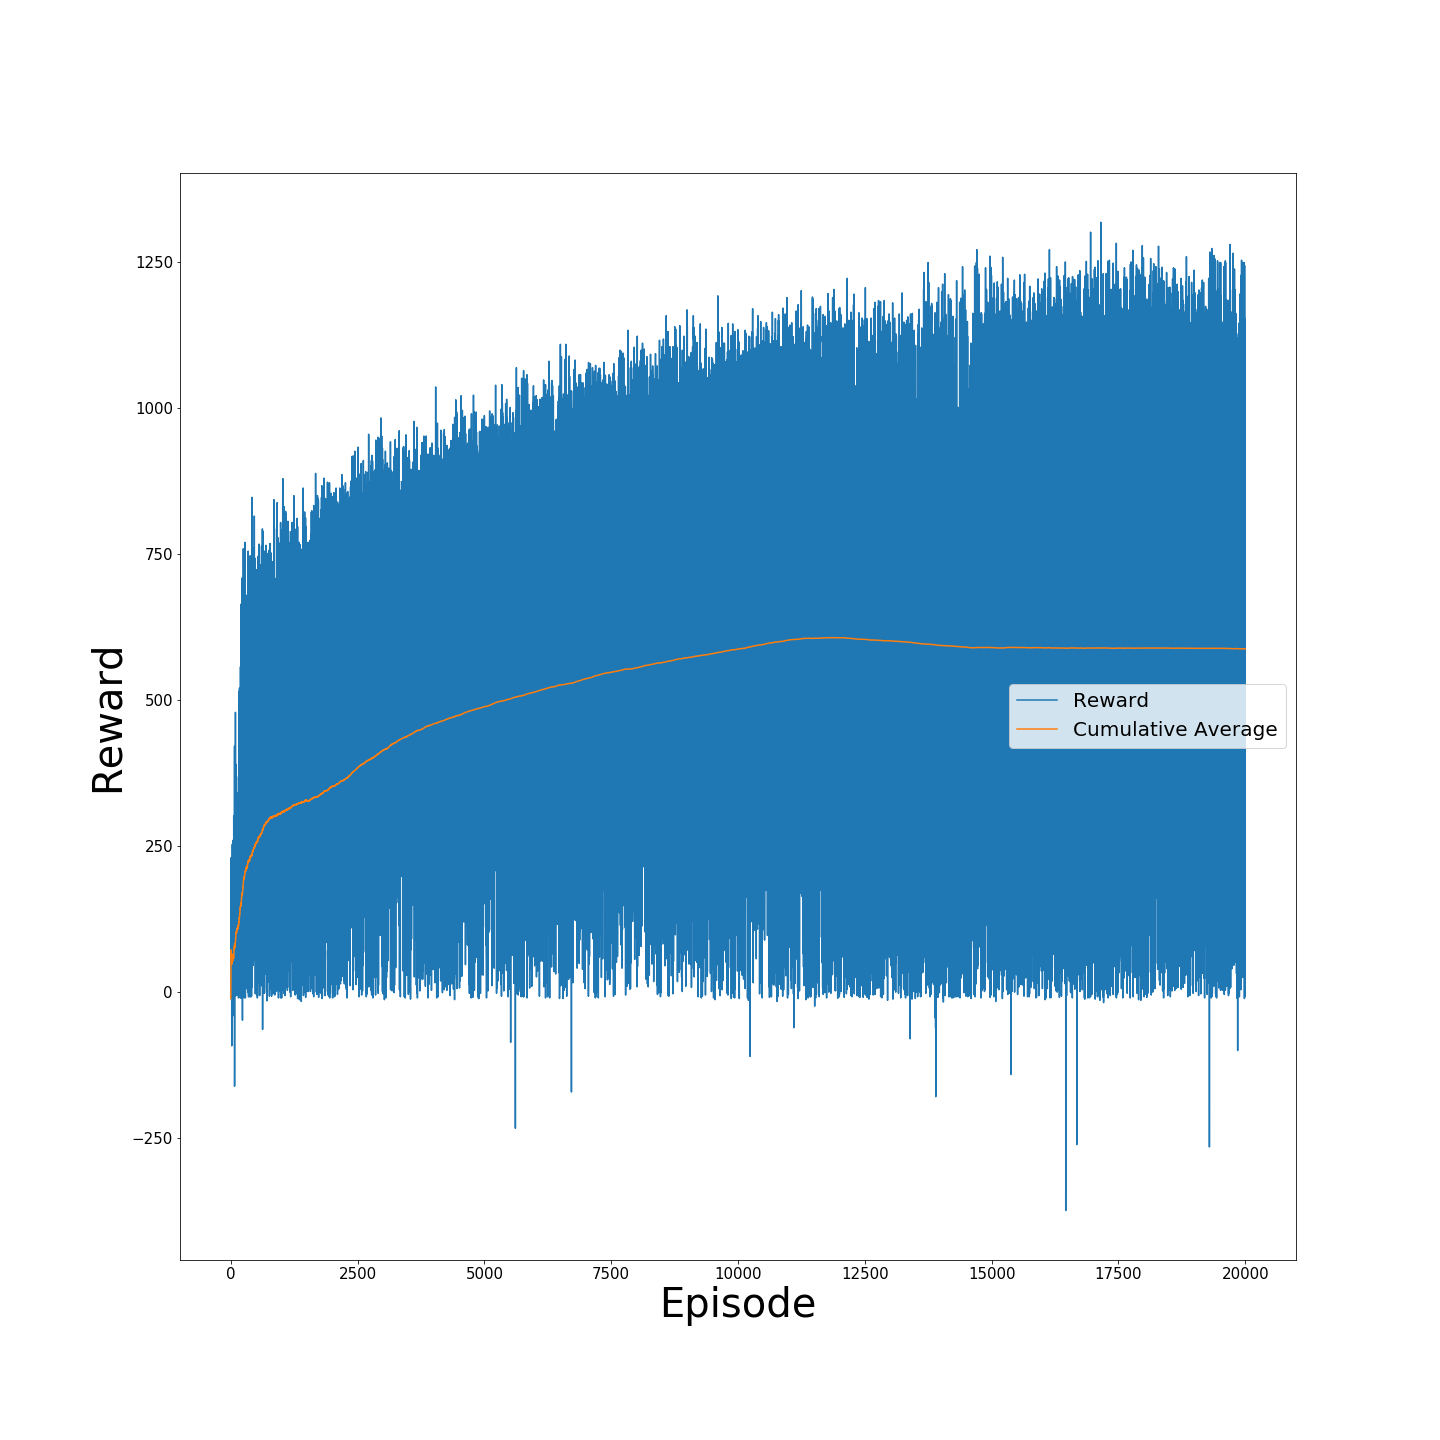
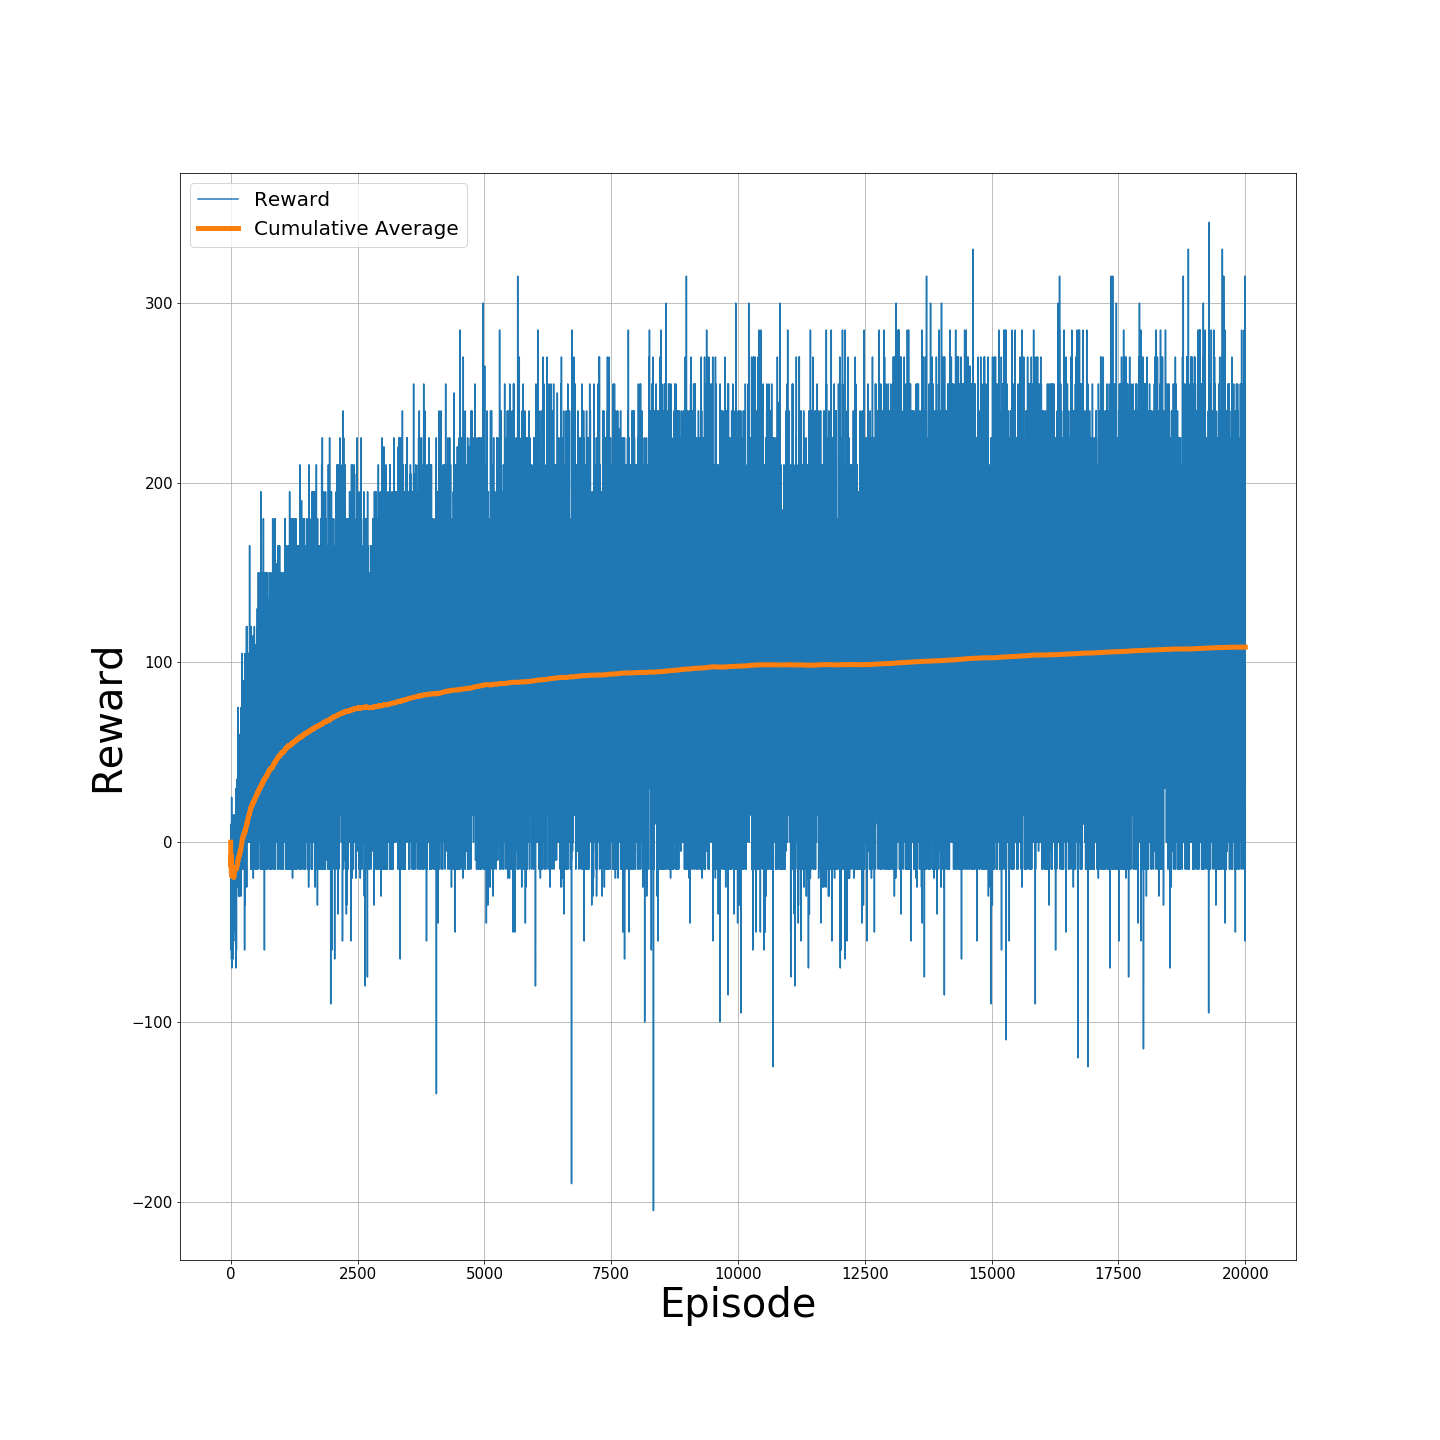
Final modification on deep model with plots

diff --git a/Bilbo World/Bilbo_ga_deep_feels.py b/Bilbo World/Bilbo_ga_deep_feels.py
@@ -5,65 +5,23 @@ import time
 import numpy as np
 import matplotlib.pyplot as plt
 import matplotlib.animation as animation
-from collections import deque
 
 d = {TREASURE_CHAR: '16',
      PLAYER_CHAR: '5',
      DRAGON_CHAR: '10',
      OBSTACLE_CHAR: '20'}
 
-memory = deque(maxlen=5000)
-hight_reward_memory = deque(maxlen=5000)
-
 MAX_EPOCH = 150
-TOT_GENERATION = 300
+TOT_GENERATION = 150
 ELITISM = 0.1
 MUTATION = 0.05
-n_pop = 200
+n_pop = 150
 
 possible_moves = {'up':0,'down':1,'left':2,'right':3}
 inverse_possible_moves = {0:'up',1:'down',2:'left',3:'right'}
 
 gamma = 0.8
 mondo = World(WORLD_DIM, bilbo=None, obstacle=False, random_spawn=True)
-
-def train(bilbo, i):
-    "trains the best neural networks for GA, using a common memory"
-    if len(memory) < MIN_MEMORY or len(hight_reward_memory) < MIN_MEMORY:
-        return bilbo
-
-    start_time = time.time()
-    minibatch = random.sample(memory, 16)
-    minibatch.extend(random.sample(hight_reward_memory,16))
-
-    current_states = np.array([memory[0] for memory in minibatch])
-    current_qs_list = bilbo.q_nn.predict(current_states)
-
-    next_states = np.array([memory[3] for memory in minibatch])
-    future_qs_list = bilbo.q_nn.predict(next_states)
-
-    X = []
-    y = []
-
-        # Now we need to enumerate our batches
-    for index, (current_state, action, reward, next_current_state, game_ended) in enumerate(minibatch):
-        # almost like with Q Learning, but we use just part of equation here
-        if game_ended or reward == -OBSTACLE_PENALTY or reward == TREASURE_REWARD:
-            new_q = reward
-        else:
-            max_future_q = np.max(future_qs_list[index])
-            new_q = reward + gamma * max_future_q
-
-        # Aggiorna i q-value
-        current_qs = current_qs_list[index]
-        current_qs[action] = new_q
-
-        X.append(current_state)
-        y.append(current_qs)
-
-    bilbo.q_nn.fit(np.array(X), np.array(y), batch_size=32, verbose=0, shuffle=False)
-    #print("The {0:3} training took {1:2}s".format(i,round(time.time()-start_time)), end='\r')
-    return bilbo
 
 def recorded_gameplay(bilbo):
     "Just for some animated gameplay (used while developing)"
@@ -121,10 +79,6 @@ def play_game(bilbo, n_times=1, max_epoch=MAX_EPOCH):
             tot_reward += reward
             knowledge = (current_state,action,reward,new_state,reward in [-DRAGON_PENALTY, -OBSTACLE_PENALTY])
             current_state = new_state
-            if reward in [-DRAGON_PENALTY, TREASURE_REWARD]:
-                hight_reward_memory.append(knowledge)
-            else:
-                memory.append(knowledge)
             if to_print:
                 print(mondo)
             if reward in [-DRAGON_PENALTY, -OBSTACLE_PENALTY]:
@@ -138,7 +92,7 @@ def pop_fitness(pop, max_epoch=MAX_EPOCH, _train=True):
     #why u not working :'(
     #Parallel(n_jobs=-1)(delayed(play_game)(bilbo) for bilbo in pop)
     for i in range(len(pop)):
-        sub_fitness = play_game(pop[i], 2, max_epoch)
+        sub_fitness = play_game(pop[i], 3, max_epoch)
         #print('fitness value of chromosome {:3} : {:6}'.format(i+1, round(sub_fitness,2)), end='\r')
         fitness.append(sub_fitness)
     return np.array(fitness)
@@ -191,7 +145,7 @@ def parents(pop, _train=True):
     best_model = pop[fitness_sorted[0]]
     return parents, round(np.mean(fitness), 2), round(np.max(fitness), 2), best_model
 
-def _new_pop(pop, elitism=0.1, mutationRate=0.1, _train=True):
+def _new_pop(pop, elitism=0.1, mutationRate=0.1):
     '''
     The Heart of the GA algorithm, starting from a certain population searches
     the best parents and using crossover and mutation completes the population
@@ -203,12 +157,8 @@ def _new_pop(pop, elitism=0.1, mutationRate=0.1, _train=True):
     pop_ordered, average_fitness, max_fitness, best_model = parents(pop)
     #print("calculated parents in:{:10}s".format(round(time.time()-start_time)))
     parent_pool = pop_ordered[:eliteSize]
-    if _train:
-        for i in range(0, eliteSize):
-            children.append(train(parent_pool[i], i))
-    else:
-        for i in range(0, eliteSize):
-            children.append(parent_pool[i])
+    for i in range(0, eliteSize):
+        children.append(parent_pool[i])
 
     for i in range(0, length):
         sample = random.sample(parent_pool, 2) #cerca madre e padre
@@ -232,7 +182,7 @@ max_reward = [max_fit]
 
 start_time = time.time()
 for gen in range(TOT_GENERATION):
-    pop, average_fit, max_fit, best_model = _new_pop(pop, ELITISM, MUTATION, _train=True)
+    pop, average_fit, max_fit, best_model = _new_pop(pop, ELITISM, MUTATION)
     print("New gen average:{:6} New gen Max:{:6}, Generation:{:3}, Time:{}s".format(average_fit, max_fit, gen + 1, round(time.time() - start_time)), end='\r')
     average_reward.append(average_fit)
     max_reward.append(max_fit)
@@ -241,36 +191,14 @@ print("Final average:{:6} Final Max:{:6}, Time Used:{}s".format(average_fit, max
 best_model.save_model('./models/deep_model_ga_15.model')
 
 
-for i in range(len(pop)):
-    pop[i].set_weights(init_weights[i])
-
-pop_fit = pop_fitness(pop)
-average_fit = round(np.mean(pop_fit), 2)
-average_reward_basic = [average_fit]
-max_fit = round(np.max(pop_fit), 2)
-max_reward_basic = [max_fit]
-
-start_time = time.time()
-for gen in range(TOT_GENERATION):
-    pop, average_fit, max_fit, best_model = _new_pop(pop, ELITISM, MUTATION, _train=False)
-    print("New gen average:{:6} New gen Max:{:6}, Generation:{:3}, Time:{}s".format(average_fit, max_fit, gen + 1, round(time.time() - start_time)), end='\r')
-    average_reward_basic.append(average_fit)
-    max_reward_basic.append(max_fit)
-
-print("Final average:{:6} Final Max:{:6}, Time Used:{}s".format(average_fit, max_fit, round(time.time() - start_time)))
-best_model.save_model('./models/deep_model_basic_ga_15.model')
-
-
 plt.rc('xtick', labelsize=15)    # fontsize of the tick labels
 plt.rc('ytick', labelsize=15)
 
 fig = plt.figure(figsize=(20, 20))
-av_reward_plt, = plt.plot(average_reward_basic)
-max_reward_plt, = plt.plot(max_reward_basic)
 av_reward_plt_n, = plt.plot(average_reward)
 max_reward_plt_n, = plt.plot(max_reward)
-plt.legend([av_reward_plt, max_reward_plt,av_reward_plt_n, max_reward_plt_n],
-           ['Average Reward Basic', 'Max Reward Basic','Average Reward New', 'Max Reward New'],
+plt.legend([av_reward_plt_n, max_reward_plt_n],
+           ['Max Reward','Average Reward'],
            loc=5, prop={'size': 20})
 plt.xlabel('Generation', fontsize=40)
 plt.ylabel('Reward', fontsize=40)

diff --git a/Bilbo World/Bilbo_deep_feels.py b/Bilbo World/Bilbo_deep_feels.py
@@ -1,8 +1,7 @@
+import time
 import matplotlib.pyplot as plt
-#import matplotlib.animation as animation
 from CreateBilboWorld import *
 from agents import *
-import time
 
 def cumsum_average(array):
     ret = np.cumsum(array, dtype=float)
@@ -15,16 +14,16 @@ d = {TREASURE_CHAR: '16',
      OBSTACLE_CHAR: '20'}
 
 TOT_EPISODES = 20000
-MAX_EPOCH = 500
+MAX_EPOCH = 150
 
-possible_moves = {'up':0,'down':1,'left':2,'right':3}
-inverse_possible_moves = {0:'up',1:'down',2:'left',3:'right'}
+possible_moves = {'up':0, 'down':1, 'left':2, 'right':3}
+inverse_possible_moves = {0:'up', 1:'down', 2:'left', 3:'right'}
 
 
 gamma = 0.8
 epsilon = 0.5
 epsilon_min = 0.01
-decay_epsilon = 0.9999
+decay_epsilon = 0.9997
 
 bilbo = DeepQLearningAgent(PLAYER_CHAR)
 
@@ -37,7 +36,8 @@ tot_wins = []
 tot_loss = []
 start_time = time.time()
 
-fig = plt.figure(figsize=(15,10))
+fig = plt.figure(figsize=(15, 10))
+plt.grid(True)
 for ep in range(TOT_EPISODES):
     #recreate the environment
     mondo = World(WORLD_DIM, bilbo=bilbo, obstacle=False, random_spawn=True)
@@ -73,16 +73,17 @@ for ep in range(TOT_EPISODES):
             current_qs = np.array([current_qs])
             bilbo.q_nn.fit(current_state.reshape(-1, bilbo.state_shape), current_qs, verbose=0)
             lost += 1
-        if reward in [TREASURE_REWARD,-DRAGON_PENALTY]:
+        if reward in [TREASURE_REWARD, -DRAGON_PENALTY]:
             bilbo.add_high_knowledge((current_state, action, reward, new_state, game_ended))
         else:
             bilbo.add_knowledge((current_state, action, reward, new_state, game_ended))
         current_state = new_state
         bilbo.train(gamma)
-        tot_reward += reward
+        if not reward in [-2, 1]:
+            tot_reward += reward
         if end_game:
             break
-        if len(tot_wins) > 0:
+        if tot_wins:
             if epoch == MAX_EPOCH and won == tot_wins[-1]:
                 lost += 1
 
@@ -97,45 +98,47 @@ for ep in range(TOT_EPISODES):
     epsilon = epsilon*decay_epsilon if epsilon > epsilon_min else epsilon_min
     #each 10 episode save the model
     if ep % 10 == 0:
-        save_model(bilbo.q_nn,'./models/deep_model_'+str(WORLD_DIM)+'.model')
+        save_model(bilbo.q_nn, './models/deep_model_'+str(WORLD_DIM)+'.model')
         plt.subplot(221)
-        reward_plot, = plt.plot(rewards)
-        ra_reward, = plt.plot(cumsum_average(rewards))
-        plt.legend([reward_plot, ra_reward], ['Reward', 'Rolling Average'], loc = 5)
+        reward_plot, = plt.plot(rewards, color='tab:blue')
+        ra_reward, = plt.plot(cumsum_average(rewards), linewidth=5, color='tab:orange')
+        plt.legend([reward_plot, ra_reward], ['Reward', 'Cumulative Average'], loc='best')
         plt.xlabel('Episode')
         plt.ylabel('Reward')
+        plt.grid(True)
 
         plt.subplot(222)
-        win_plot, = plt.plot(tot_wins)
-        lost_plot, = plt.plot(tot_loss)
-        plt.legend([win_plot, lost_plot], ['Total Wins', 'Total Non Wins'], loc = 5)
+        win_plot, = plt.plot(tot_wins, color='tab:blue')
+        lost_plot, = plt.plot(tot_loss, color='tab:orange')
+        plt.legend([win_plot, lost_plot], ['Total Wins', 'Total Non Wins'], loc='best')
         plt.xlabel('Episodes')
-        plt.ylabel('Tot Wins and Losing')
-
+        plt.ylabel('Tot Won and Lost')
+        plt.grid(True)
         plt.draw()
         plt.pause(0.001)
 
 #save the model again in case the MAX_episodes was not divisible by 10
-save_model(bilbo.q_nn,'./models/deep_model_'+str(WORLD_DIM)+'.model')
-
+save_model(bilbo.q_nn, './models/deep_model_'+str(WORLD_DIM)+'.model')
 plt.show()
 ### PLOTS
 plt.rc('xtick', labelsize=15)    # fontsize of the tick labels
 plt.rc('ytick', labelsize=15)
 
-fig = plt.figure(figsize=(20,20))
-reward, = plt.plot(rewards)
-ra_reward, = plt.plot(cumsum_average(rewards))
-plt.legend([reward, ra_reward], ['Reward', 'Rolling Average'], loc = 5, prop={'size': 20})
-plt.xlabel('Episode',fontsize=40)
-plt.ylabel('Reward',fontsize=40)
+fig = plt.figure(figsize=(20, 20))
+reward, = plt.plot(rewards, color='tab:blue')
+ra_reward, = plt.plot(cumsum_average(rewards), linewidth=2, color='tab:orange')
+plt.legend([reward, ra_reward], ['Reward', 'Cumulative Average'], loc='best', prop={'size': 20})
+plt.xlabel('Episode', fontsize=40)
+plt.ylabel('Reward', fontsize=40)
+plt.grid(True)
 fig.savefig('./plots/reward_deep_'+str(WORLD_DIM)+'.png')
 
 
-fig = plt.figure(figsize=(20,20))
+fig = plt.figure(figsize=(20, 20))
 win, = plt.plot(tot_wins)
 lost, = plt.plot(tot_loss)
-plt.legend([win, lost], ['Total Wins', 'Total Non Wins'], loc = 5, prop={'size': 20})
-plt.xlabel('Episodes',fontsize=40)
-plt.ylabel('Tot Wins and Losing',fontsize=40)
+plt.legend([win, lost], ['Total Wins', 'Total Non Wins'], loc='best', prop={'size': 20})
+plt.xlabel('Episodes', fontsize=40)
+plt.ylabel('Tot Won and Lost', fontsize=40)
+plt.grid(True)
 fig.savefig('./plots/epoch_deep_'+str(WORLD_DIM)+'.png')

diff --git a/Bilbo World/agents.py b/Bilbo World/agents.py
@@ -13,7 +13,7 @@ PLAYER_CHAR = '☺'
 OBSTACLE_CHAR = "█"
 
 MAX_MEMORY = 5000
-MIN_MEMORY = 16
+MIN_MEMORY = 32
 
 
 
@@ -192,7 +192,7 @@ class DeepQLearningAgent(Agent):
         model = Sequential()
 
         model.add(Dense(2*self.state_shape, input_shape=input_shape, activation='relu'))
-        model.add(Dense(8, activation='relu'))
+        #model.add(Dense(8, activation='relu'))
         #output layer
         model.add(Dense(self.action_size, activation='linear'))
         model.compile(loss='mse',
@@ -215,8 +215,8 @@ class DeepQLearningAgent(Agent):
             return
 
         # random elements from memory
-        minibatch = random.sample(self.memory, 16)
-        minibatch.extend(random.sample(self.hight_reward_memory, 16))
+        minibatch = random.sample(self.memory, 32)
+        minibatch.extend(random.sample(self.hight_reward_memory, 32))
 
         current_states = np.array([memory[0] for memory in minibatch])
         current_qs_list = self.q_nn.predict(current_states)
@@ -246,7 +246,7 @@ class DeepQLearningAgent(Agent):
             X.append(current_state)
             y.append(current_qs)
 
-        self.q_nn.fit(np.array(X), np.array(y), batch_size=32, verbose=0, shuffle=False)
+        self.q_nn.fit(np.array(X), np.array(y), batch_size=64, verbose=0, shuffle=False)
 
 
 class DeepQLearningAgentGA(Agent):

diff --git a/Bilbo World/CreateBilboWorld.py b/Bilbo World/CreateBilboWorld.py
@@ -105,7 +105,7 @@ class World:
         if not moving_reward: #for q learning
             return -WALKING_PENALTY
 
-        if (current_state==next_state).all():
+        if (current_state == next_state).all():
             return -OBSTACLE_PENALTY
         treasure_pos = np.array(self.get_position(TREASURE_CHAR))
         #reward can either return a negative constant (-1) or 0, but to have a faster
@@ -114,8 +114,8 @@ class World:
         player_old_pos = current_state[0:2]
         player_new_pos = next_state[0:2]
         if np.sum(np.abs(player_old_pos - treasure_pos)) <= np.sum(np.abs(player_new_pos - treasure_pos)):
-            return 0
-        return 0 #if closing in to the treasure
+            return -2
+        return 1 #if closing in to the treasure
 
 
     def is_border(self, pos):

diff --git a/Bilbo World/Bilbo_q_learning.py b/Bilbo World/Bilbo_q_learning.py
@@ -139,7 +139,7 @@ def cumsum_sma(array, period):
 #plot for Reward
 fig = plt.figure(figsize=(15, 15))
 reward, = plt.plot(rewards)
-ra_reward, = plt.plot(cumsum_sma(rewards, 10),  linewidth=5)
+ra_reward, = plt.plot(cumsum_sma(rewards, 10), linewidth=5)
 plt.legend([reward, ra_reward], ['Reward', 'Cumulative Average'], loc=5, prop={'size': 20})
 plt.xlabel('Episode', fontsize=40)
 plt.ylabel('Reward', fontsize=40)
